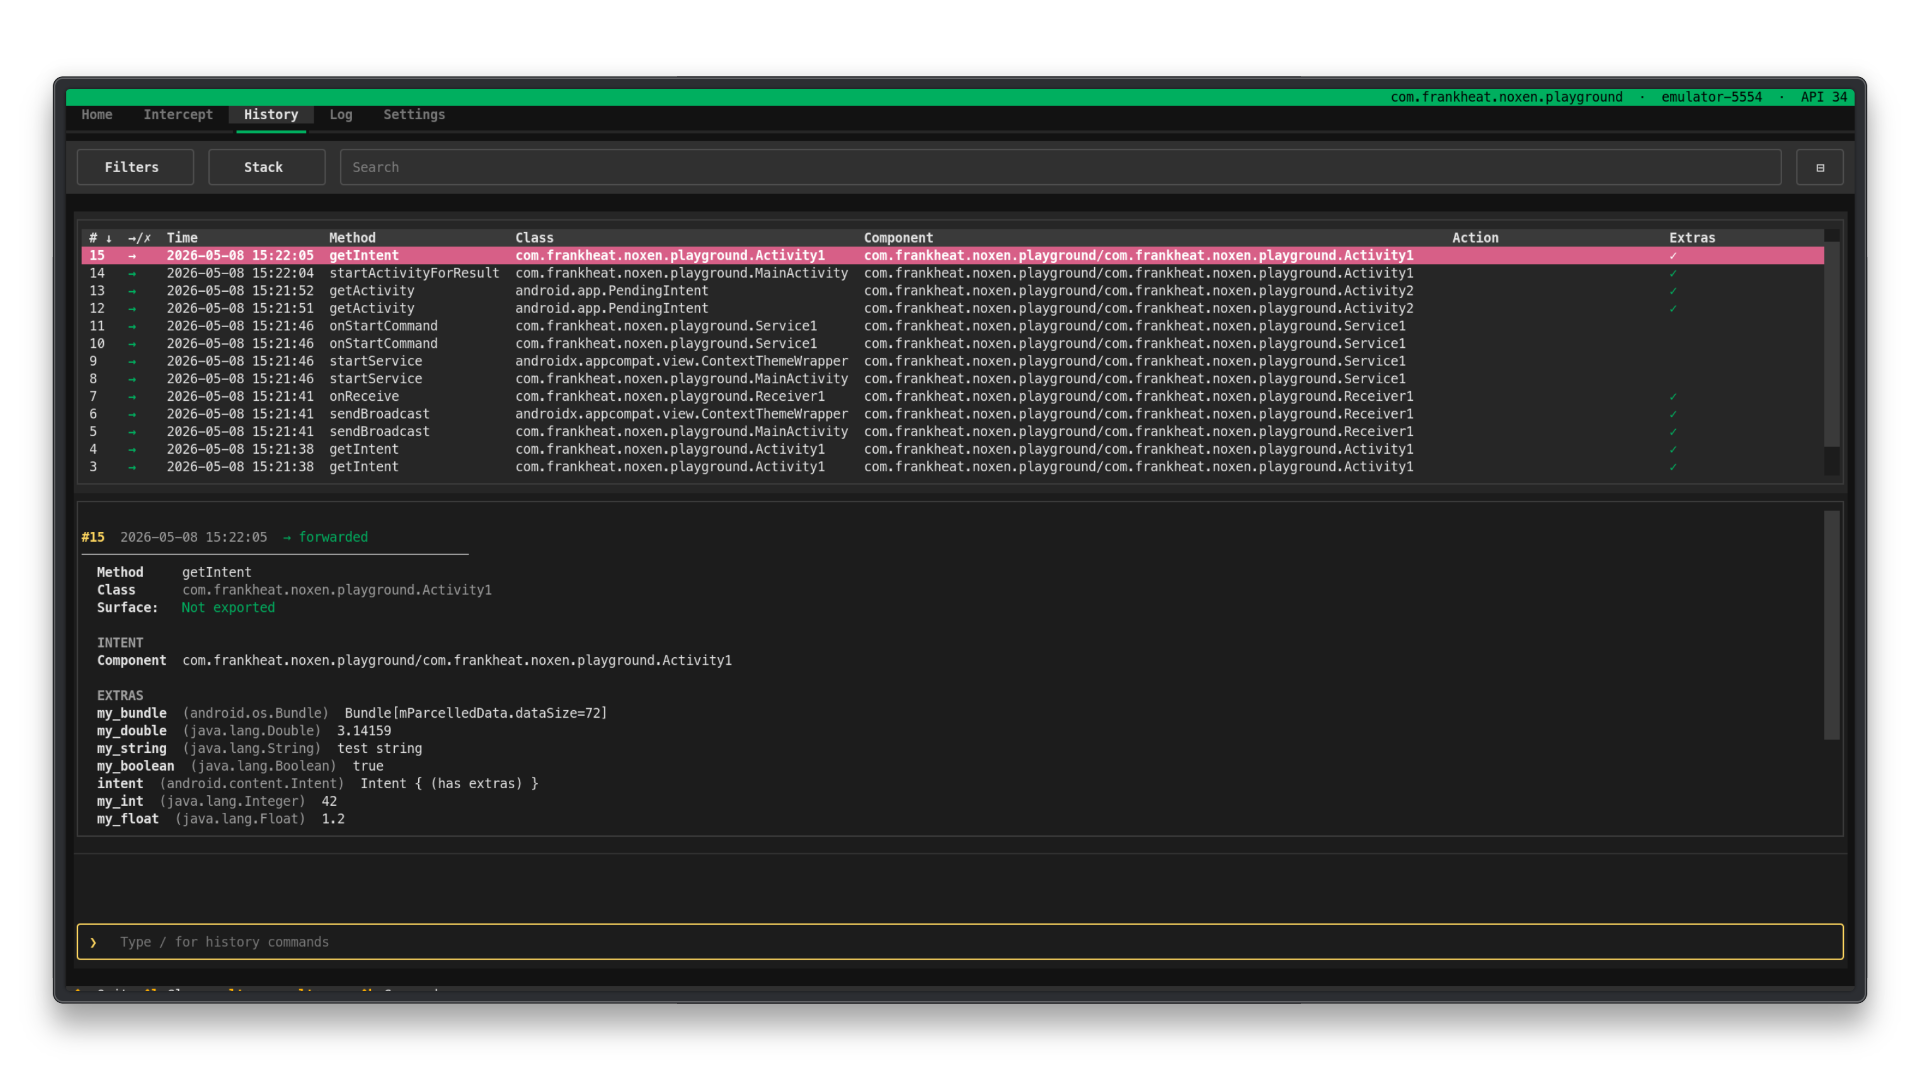
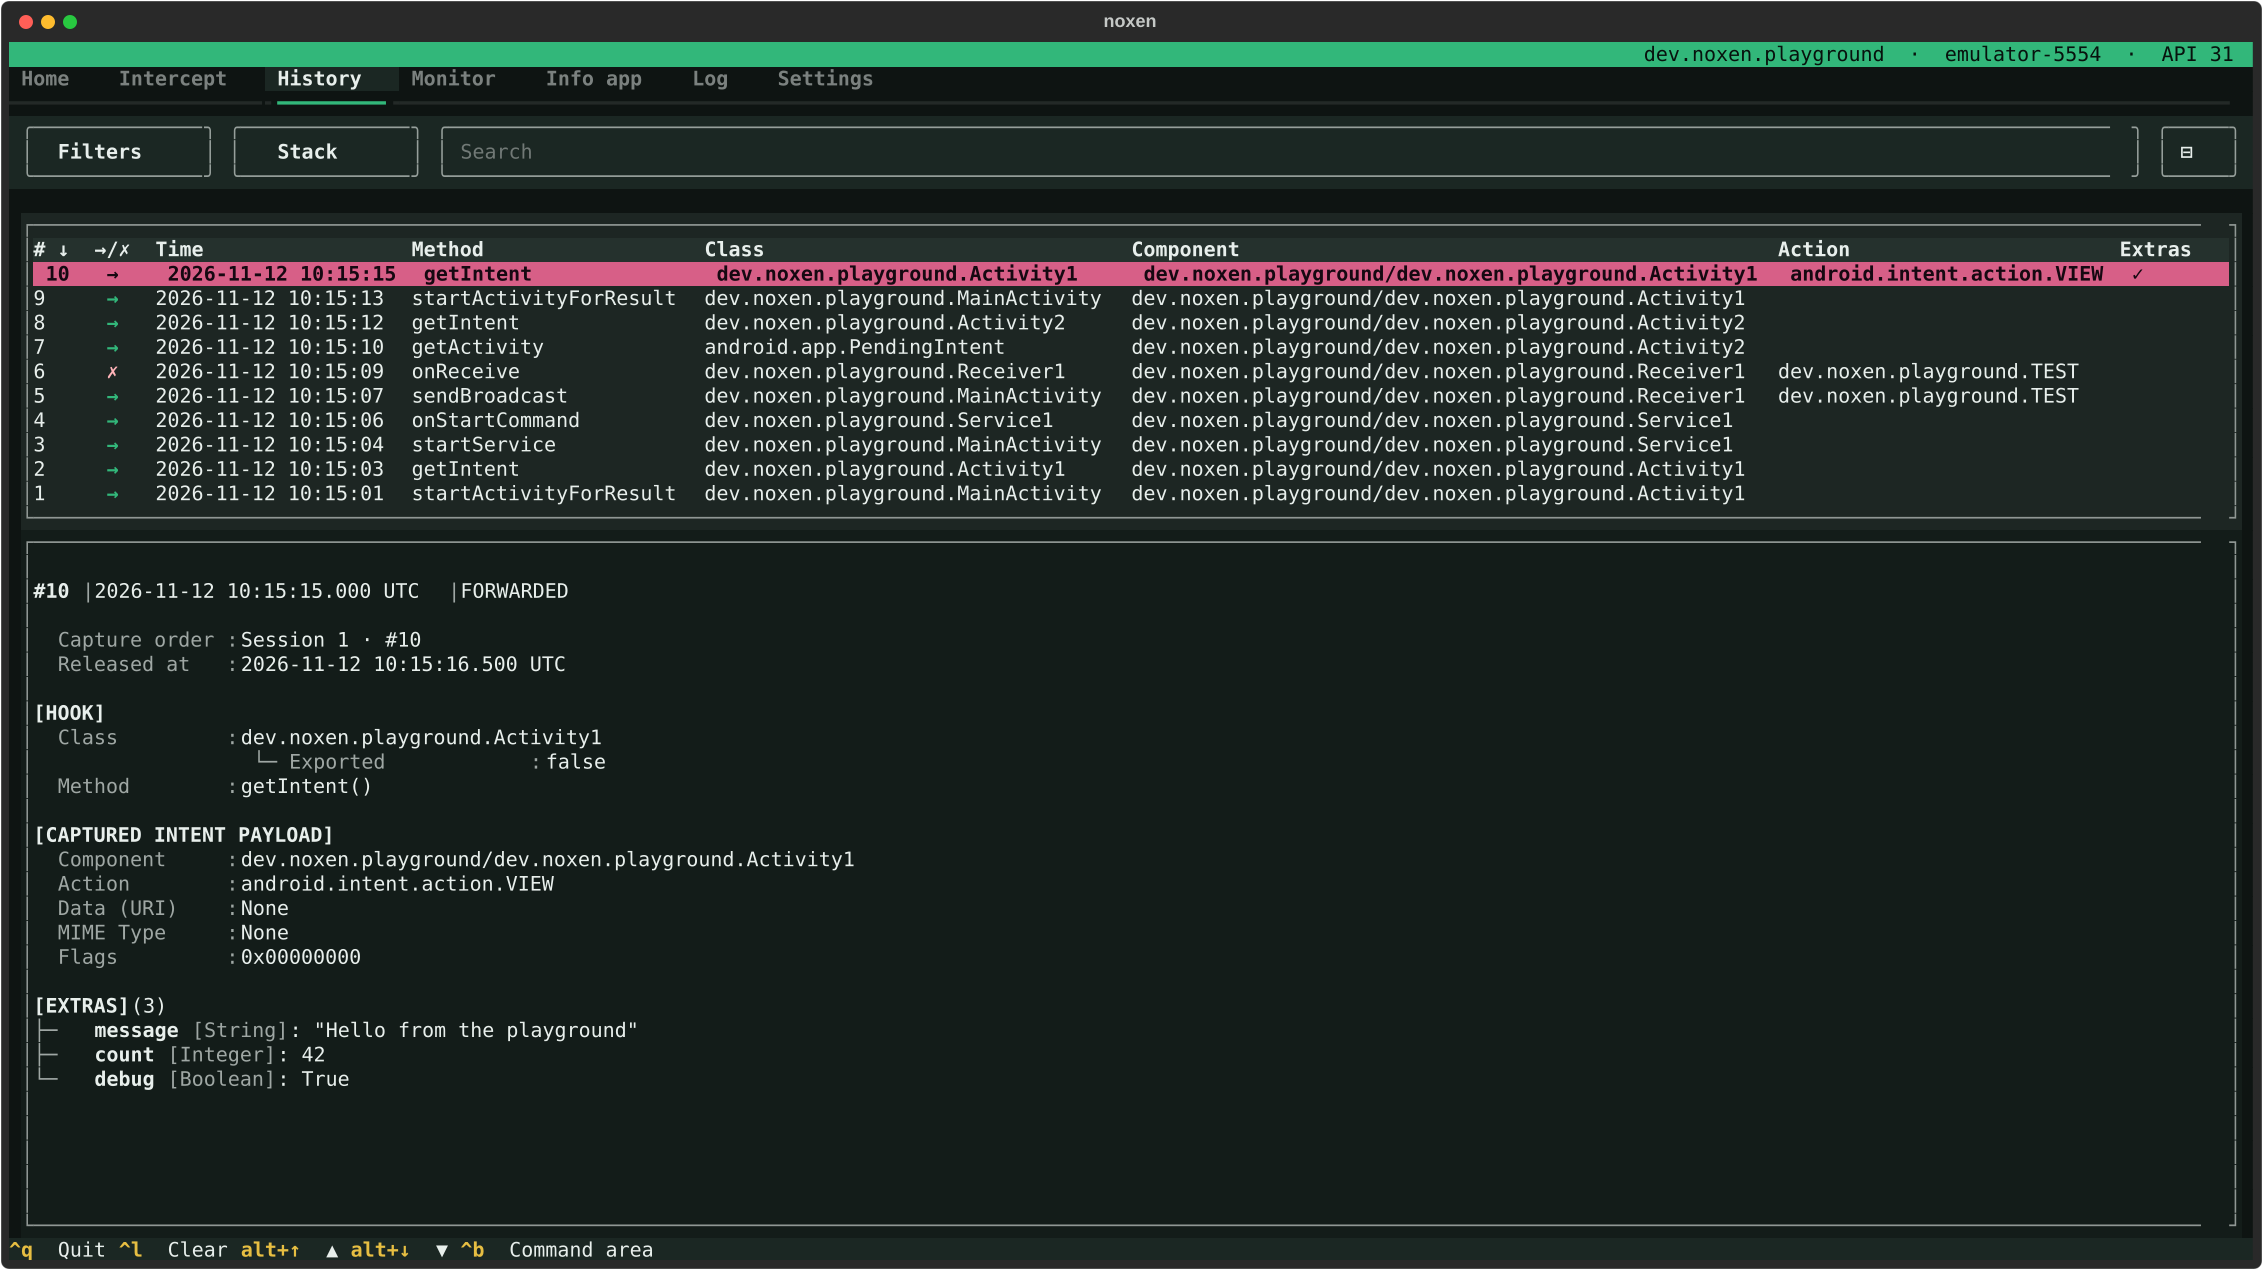
Restore fuchsia table selections and refresh screenshots

diff --git a/src/noxen/history_table.py b/src/noxen/history_table.py
@@ -74,13 +74,11 @@ class HistoryTable(ScrollView, can_focus=True):
         &:focus > .history-table--header { background-tint: $foreground 5%; }
         & > .history-table--header-hover { background: $primary-muted; }
         & > .history-table--cursor {
-            background: $primary;
-            color: $button-color-foreground;
+            background: $table-selection-background;
+            color: $table-selection-foreground;
             text-style: $block-cursor-blurred-text-style;
         }
         &:focus > .history-table--cursor {
-            background: $block-cursor-background;
-            color: $block-cursor-foreground;
             text-style: $block-cursor-text-style;
         }
         & > .history-table--hover { background: $block-hover-background; }

diff --git a/tests/test_history_table.py b/tests/test_history_table.py
@@ -1,4 +1,5 @@
 import unittest
+from pathlib import Path
 from unittest.mock import patch
 
 from rich.text import Text
@@ -9,6 +10,7 @@ from textual.app import App, ComposeResult
 from textual.containers import Horizontal
 from textual.widgets import DataTable
 
+from noxen import history_table
 from noxen.history_table import HistoryTable
 from noxen.rendering import history_row_values, history_sort_key
 from noxen.ui_theme import register_noxen_themes, semantic_colors
@@ -27,6 +29,7 @@ def entry(number, **changes):
 
 
 class TableApp(App):
+    CSS_PATH = Path(history_table.__file__).with_name("noxen.tcss")
     CSS = 'DataTable, HistoryTable { width: 1fr; height: 1fr; }'
 
     def __init__(self, items):

diff --git a/src/noxen/ui_theme.py b/src/noxen/ui_theme.py
@@ -91,6 +91,8 @@ NOXEN_DARK_THEME = Theme(
         "footer-key-foreground": DARK_COLORS.warning,
         "input-selection-background": "#A23F76 55%",
         "button-color-foreground": "#07120D",
+        "table-selection-background": "#D75F87",
+        "table-selection-foreground": "#160811",
     },
 )
 
@@ -116,6 +118,8 @@ NOXEN_LIGHT_THEME = Theme(
         "footer-key-foreground": LIGHT_COLORS.success,
         "input-selection-background": "#8B2E63 35%",
         "button-color-foreground": "#FFFFFF",
+        "table-selection-background": LIGHT_COLORS.brand_start,
+        "table-selection-foreground": "#FFFFFF",
     },
 )
 
